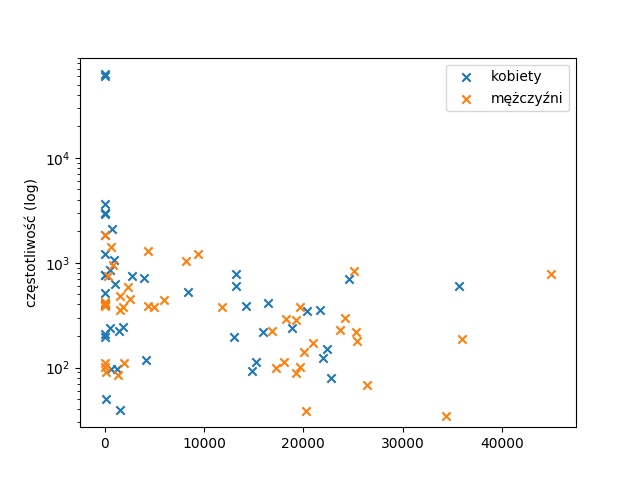
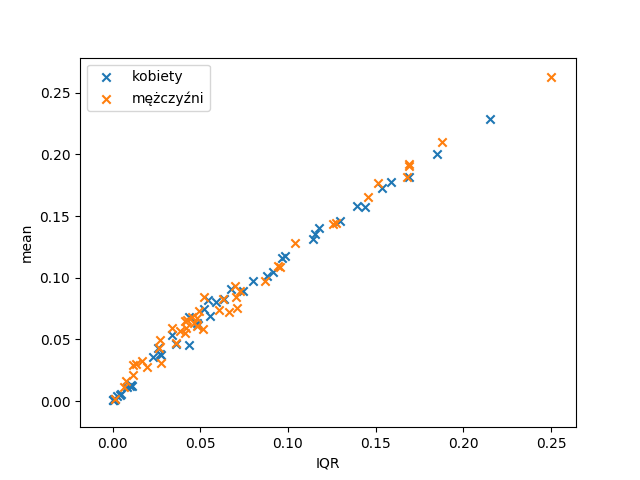
add: more statistics

diff --git a/main.py b/main.py
@@ -8,41 +8,70 @@ from os import listdir
 from os.path import isfile, join
 
 
+def spectral_properties(y: np.ndarray, fs: int) -> dict:
+    spec = np.abs(np.fft.rfft(y))
+    freq = np.fft.rfftfreq(len(y), d=1 / fs)
+    spec = np.abs(spec)
+    amp = spec / spec.sum()
+    mean = (freq * amp).sum()
+    sd = np.sqrt(np.sum(amp * ((freq - mean) ** 2)))
+    amp_cumsum = np.cumsum(amp)
+    median = freq[len(amp_cumsum[amp_cumsum <= 0.5]) + 1]
+    mode = freq[amp.argmax()]
+    Q25 = freq[len(amp_cumsum[amp_cumsum <= 0.25]) + 1]
+    Q75 = freq[len(amp_cumsum[amp_cumsum <= 0.75]) + 1]
+    IQR = Q75 - Q25
+    z = amp - amp.mean()
+    w = amp.std()
+    skew = ((z ** 3).sum() / (len(spec) - 1)) / w ** 3
+    kurt = ((z ** 4).sum() / (len(spec) - 1)) / w ** 4
+    result_d = {
+        'mean': mean,
+        'sd': sd,
+        'median': median,
+        'mode': mode,
+        'Q25': Q25,
+        'Q75': Q75,
+        'IQR': IQR,
+        'skew': skew,
+        'kurt': kurt
+    }
+    return result_d
+
+
 def main(audio):
     onlyfiles = [f for f in listdir("trainall/") if isfile(join("trainall/", f))]
-    kobiety = []
-    mezczyzni = []
-    for file in onlyfiles:
-        # file = "trainall/003_K.wav"
-        fs, audio = scipy.io.wavfile.read("trainall/"+file)
-        if len(audio.shape) > 1:
-            a = audio.T[0]
-        else:
-            a = audio
-        alen = int(len(a) / 2 - 1)
-        k = np.arange(alen)
-        a = a[::10]
-        fft = np.fft.fft(a)
-        fft = fft[:alen]
-        fft = abs(fft / alen * 10)
-        size = fft.size
-        fft2 = list(zip(fft, k))
-        fft2.sort(key=lambda x: x[0])
-        if file[-5] == 'K':
-            kobiety.append([fft2[-1][0], fft2[-1][1]])
-        else:
-            mezczyzni.append([fft2[-1][0], fft2[-1][1]])
-    kobiety = np.array(kobiety)
-    mezczyzni = np.array(mezczyzni)
 
-    plt.scatter(kobiety[:, 1], kobiety[:, 0], marker="x")
-    plt.scatter(mezczyzni[:, 1], mezczyzni[:, 0], marker="x")
-    plt.yscale("log")
-    plt.ylabel("częstotliwość (log)")
-    # plt.show()
-    plt.legend(("kobiety", "mężczyźni"))
-    plt.savefig("korelacja.png")
+    whats = [('mean', 'sd'), ('mean', 'IQR'), ('mean', 'Q25'), ('sd', 'IQR'), ('IQR', 'Q25'), ('sd', 'Q25')]
+    for what in whats:
+        kobiety = []
+        mezczyzni = []
+        for file in onlyfiles:
+            # file = "trainall/003_K.wav"
+            fs, audio = scipy.io.wavfile.read("trainall/" + file)
+            if len(audio.shape) > 1:
+                a = audio.T[0]
+            else:
+                a = audio
+            result = spectral_properties(a, fs)
+            if file[-5] == 'K':
+                kobiety.append([result[what[0]], result[what[1]]])
+            else:
+                mezczyzni.append([result[what[0]], result[what[1]]])
+        kobiety = np.array(kobiety)
+        mezczyzni = np.array(mezczyzni)
 
+        plt.scatter(kobiety[:, 0], kobiety[:, 1], marker="x")
+        plt.scatter(mezczyzni[:, 0], mezczyzni[:, 1], marker="x")
+
+        # plt.yscale("log")
+        plt.xlabel(what[0])
+        plt.ylabel(what[1])
+
+        plt.legend(("kobiety", "mężczyźni"))
+        # plt.show()
+        plt.savefig(what[0]+'_'+what[1]+'.png')
+        plt.close('all')
 
 
 if __name__ == '__main__':
